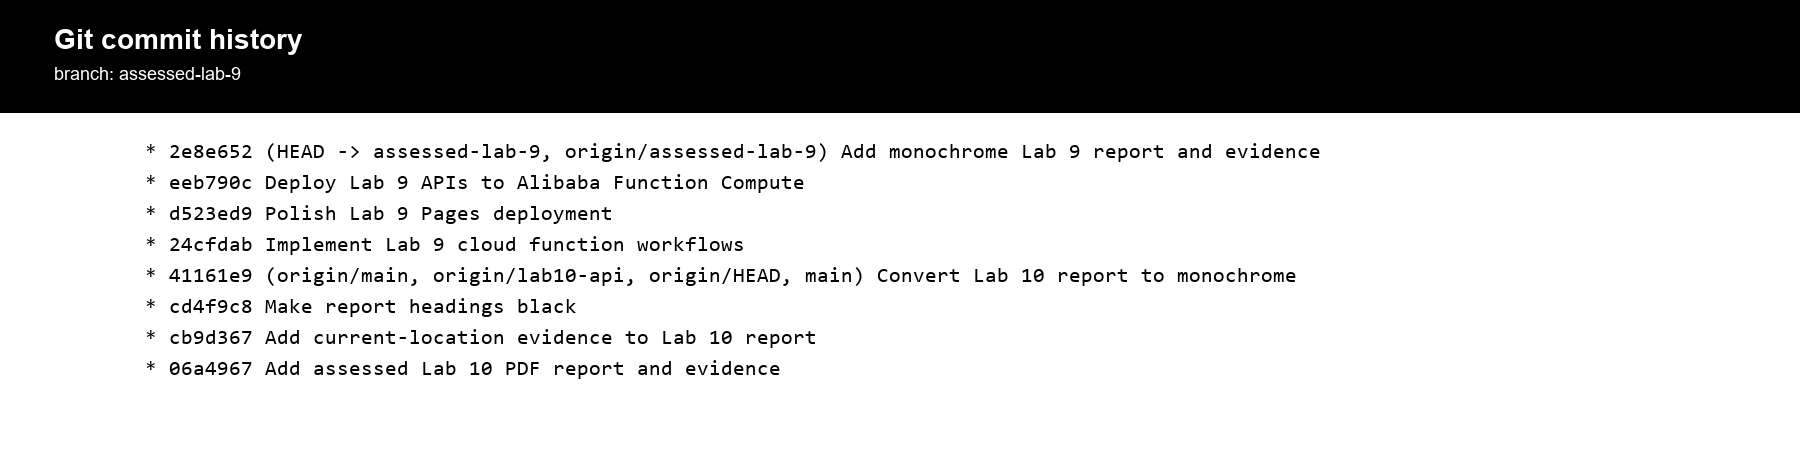
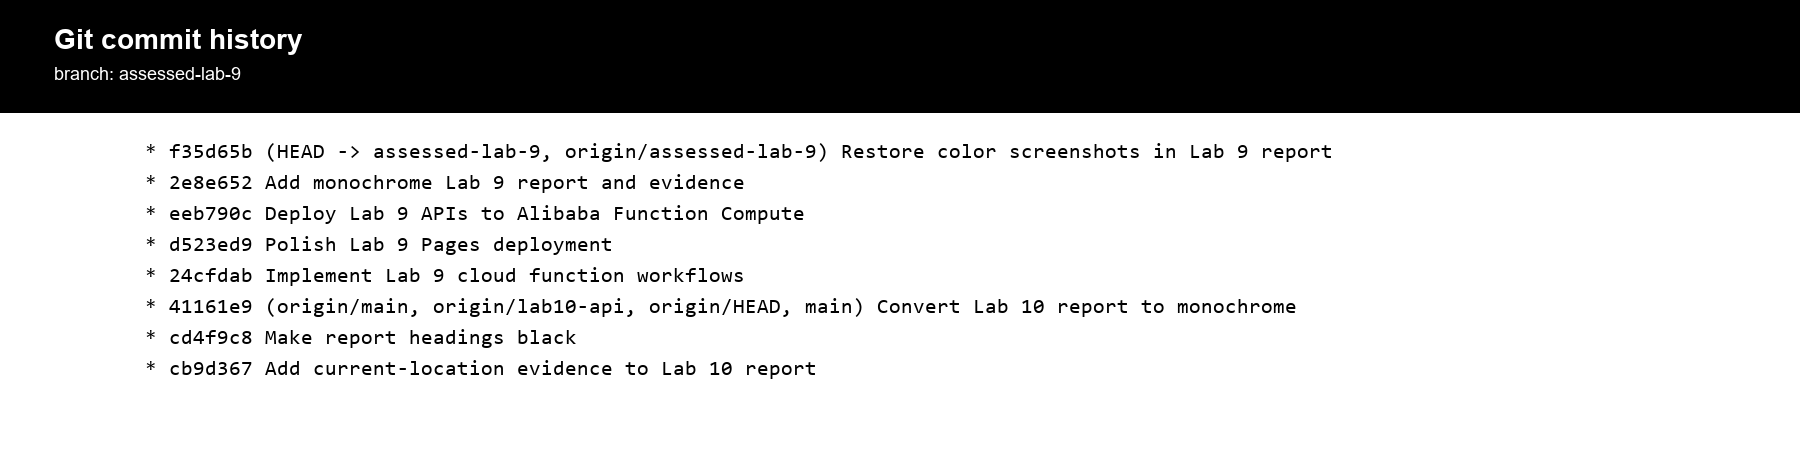
Simplify Lab 9 report table styling

diff --git a/report/generate_lab9_report.py b/report/generate_lab9_report.py
@@ -275,7 +275,7 @@ def monochrome_table(data: list[list[str]], widths: list[float], header: bool = 
         ("FONTNAME", (0, 0), (-1, 0), "Arial-Bold"),
         ("FONTNAME", (0, 1), (-1, -1), "Arial"),
         ("FONTSIZE", (0, 0), (-1, -1), 8.8),
-        ("GRID", (0, 0), (-1, -1), 0.55, colors.black),
+        ("GRID", (0, 0), (-1, -1), 0.45, colors.HexColor("#B8B8B8")),
         ("VALIGN", (0, 0), (-1, -1), "TOP"),
         ("LEFTPADDING", (0, 0), (-1, -1), 7),
         ("RIGHTPADDING", (0, 0), (-1, -1), 7),
@@ -283,13 +283,6 @@ def monochrome_table(data: list[list[str]], widths: list[float], header: bool = 
         ("BOTTOMPADDING", (0, 0), (-1, -1), 6),
         ("TEXTCOLOR", (0, 0), (-1, -1), colors.black),
     ]
-    if header:
-        commands.extend(
-            [
-                ("BACKGROUND", (0, 0), (-1, 0), colors.black),
-                ("TEXTCOLOR", (0, 0), (-1, 0), colors.white),
-            ]
-        )
     table.setStyle(TableStyle(commands))
     return table
 
